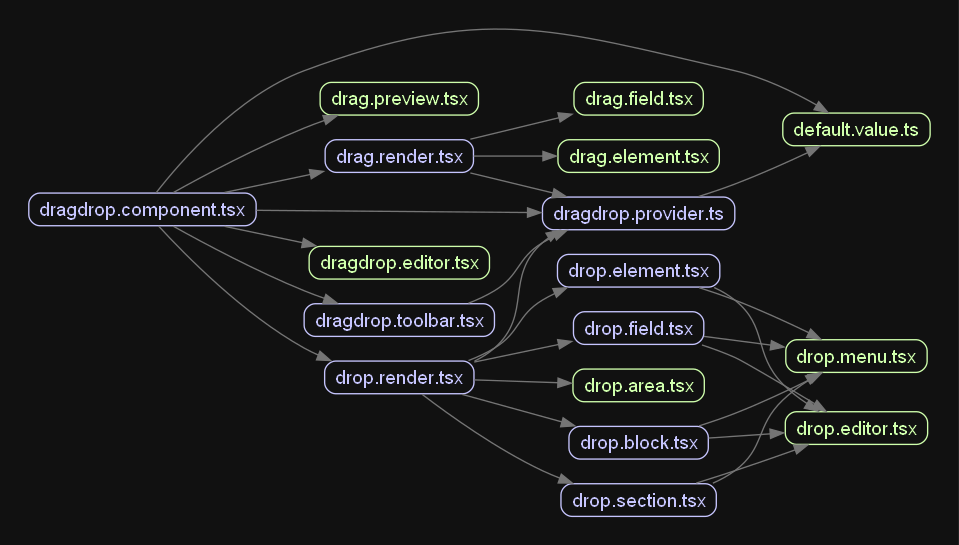
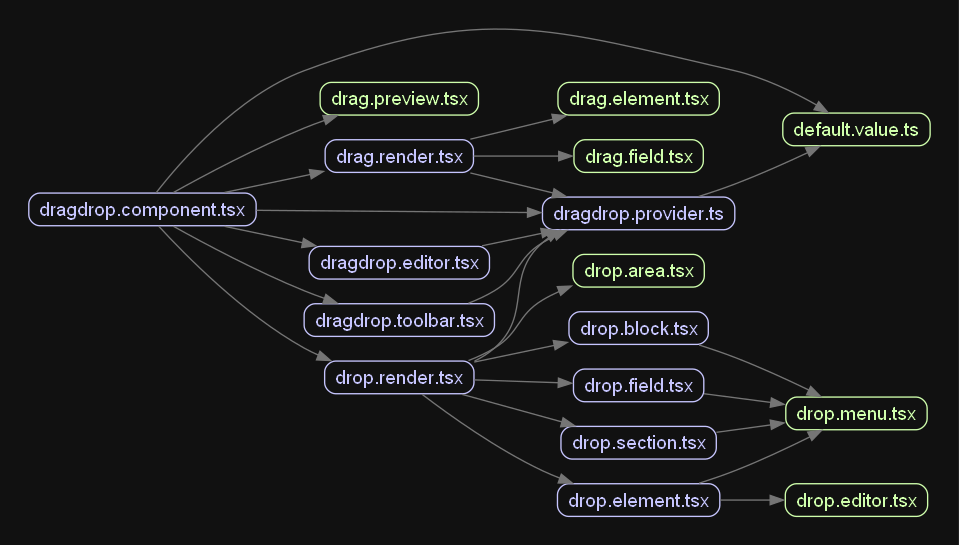
clean up editor display

diff --git a/apps/nest/apps/api/src/builder/form/form.controller.ts b/apps/nest/apps/api/src/builder/form/form.controller.ts
@@ -90,8 +90,8 @@ export class FormController {
             type: 'text',
             dataType: 'field',
             data: null,
-            parentId: 'k-9c37c',
-            position: 1,
+            parentId: null,
+            position: 0,
           },
           {
             id: 2,
@@ -100,8 +100,8 @@ export class FormController {
             type: 'text',
             dataType: 'field',
             data: null,
-            parentId: 'k-9c37c',
-            position: 2,
+            parentId: null,
+            position: null,
           },
           {
             id: 3,
@@ -110,8 +110,8 @@ export class FormController {
             type: 'text',
             dataType: 'field',
             data: null,
-            parentId: 'k-9c37c',
-            position: 3,
+            parentId: null,
+            position: null,
           },
           {
             id: 4,
@@ -121,7 +121,7 @@ export class FormController {
             dataType: 'field',
             data: null,
             parentId: null,
-            position: 4,
+            position: null,
           },
           {
             id: 5,
@@ -130,8 +130,8 @@ export class FormController {
             type: 'text',
             dataType: 'field',
             data: null,
-            parentId: 'y-b5e58',
-            position: 5,
+            parentId: null,
+            position: null,
           },
         ],
         version: 1,
@@ -190,8 +190,8 @@ export class FormController {
             type: 'text',
             dataType: 'field',
             data: null,
-            parentId: 'k-9c37c',
-            position: 1,
+            parentId: null,
+            position: 0,
           },
           {
             id: 2,
@@ -200,8 +200,8 @@ export class FormController {
             type: 'text',
             dataType: 'field',
             data: null,
-            parentId: 'k-9c37c',
-            position: 2,
+            parentId: null,
+            position: null,
           },
           {
             id: 3,
@@ -210,8 +210,8 @@ export class FormController {
             type: 'text',
             dataType: 'field',
             data: null,
-            parentId: 'k-9c37c',
-            position: 3,
+            parentId: null,
+            position: null,
           },
           {
             id: 4,
@@ -221,7 +221,7 @@ export class FormController {
             dataType: 'field',
             data: null,
             parentId: null,
-            position: 4,
+            position: null,
           },
           {
             id: 5,
@@ -230,8 +230,8 @@ export class FormController {
             type: 'text',
             dataType: 'field',
             data: null,
-            parentId: 'y-b5e58',
-            position: 5,
+            parentId: null,
+            position: null,
           },
         ],
         version: 1,

diff --git a/apps/react/src/components/dragdrop/hooks/use-dragdrop.hook.ts b/apps/react/src/components/dragdrop/hooks/use-dragdrop.hook.ts
@@ -25,9 +25,7 @@ export const useDragDrop = ({ context, item, draggable = true }: IProps) => {
   const rCoordinate = useRef<Coordinate>(defaultCoordinate);
 
   const handleDragStart = useCallback(() => {
-    context.dispatch({
-      type: ActionType.UNSELECT_ITEM
-    });
+    context.dispatch({ type: ActionType.UNSELECT_ITEM });
     return draggable;
   }, [context, draggable]);
 
@@ -43,23 +41,17 @@ export const useDragDrop = ({ context, item, draggable = true }: IProps) => {
 
     if (!dragElement) {
       const canAddItem = dndHelper.canDragDrop(dragItem, context);
-      if (!canAddItem) return;
 
-      context.dispatch({
-        type: ActionType.ADD_ITEM,
-        payload,
-      });
-
+      if (canAddItem) {
+        context.dispatch({ type: ActionType.ADD_ITEM, payload });
+      }
       return;
     }
 
     const canDragDrop = dndHelper.canDragDrop(dragItem, context, dragElement);
-    if (!canDragDrop) return;
-
-    context.dispatch({
-      type: ActionType.MOVE_ITEM,
-      payload,
-    });
+    if (canDragDrop) {
+      context.dispatch({ type: ActionType.MOVE_ITEM, payload });
+    }
   }, [context]);
 
   const handleDragOver = useCallback((dragItem: Field, monitor: DropTargetMonitor<Field>) => {
@@ -108,6 +100,18 @@ export const useDragDrop = ({ context, item, draggable = true }: IProps) => {
     preview(getEmptyImage(), { captureDraggingState: false });
     return () => { preview(null) };
   }, [preview, isDragging]);
+
+  useEffect(() => {
+    const { position, id } = item;
+    //const elementExists = context.current.elementRef[`${id}`];
+    const elementToAssign = rPreview.current || rElement.current;
+
+    const shouldAssignElementRef = position !== null && id && elementToAssign;
+
+    if (shouldAssignElementRef) {
+      context.current.elementRef[`${id}`] = elementToAssign;
+    }
+  }, [item, context, rPreview, rElement]);
 
   return {
     rElement,

diff --git a/apps/react/src/components/dragdrop/dragdrop.component.tsx b/apps/react/src/components/dragdrop/dragdrop.component.tsx
@@ -1,4 +1,4 @@
-import { useReducer, useRef } from "react";
+import { useEffect, useReducer, useRef } from "react";
 import { DndProvider } from "react-dnd";
 import { TouchBackend } from "react-dnd-touch-backend";
 import { HTML5Backend } from "react-dnd-html5-backend";
@@ -29,7 +29,7 @@ interface IProps {
 
 export function DragDrop({ data = [], dragData = [], dragElements = [], option = {} }: IProps) {
   const backend = ('ontouchstart' in window) ? TouchBackend : HTML5Backend;
-  const { current: currentRef } = useRef(defaultRef);
+  const ref = useRef(defaultRef);
   const [state, dispatch] = useReducer(dragdropReducer, { ...defaultState, currentData: data, dataSource: structuredClone(data) });
 
   useHistory({
@@ -38,9 +38,16 @@ export function DragDrop({ data = [], dragData = [], dragElements = [], option =
     dispatch
   });
 
+  useEffect(() => {
+    // Resetting the elementRef when component unmounts
+    return () => {
+      defaultRef.elementRef = {};
+    };
+  }, []);
+
   return (
     <DndProvider backend={backend}>
-      <DragDropProvider value={{ current: currentRef, state, dispatch }}>
+      <DragDropProvider value={{ current: ref.current, state, dispatch }}>
         <DragDropToolbar />
         <DropRender />
         <DragRender dragData={dragData} dragElements={dragElements} />

diff --git a/apps/react/src/components/dragdrop/helpers/dragdrop.helper.ts b/apps/react/src/components/dragdrop/helpers/dragdrop.helper.ts
@@ -229,7 +229,11 @@ class DragDropHelper {
     return 'outside';
   }
 
-  calculateDisplayOffset(clientRect?: DOMRect | null, containerWidth: number = 300, gap: number = 40) {
+  calculateDisplayOffset(selectedElement?: Element | null, containerWidth: number = 300, gap: number = 40) {
+    if (!selectedElement) {
+      return { x: 0, y: 0 };
+    }
+    const clientRect = selectedElement.getBoundingClientRect();
     const totalWidth = containerWidth + gap;
     const clientTop = clientRect?.top || 0;
     const clientRight = clientRect?.right || 0;
@@ -240,7 +244,7 @@ class DragDropHelper {
 
     if (rightSpace && rightSpace > totalWidth) {
       rightPosition = clientRight + gap;
-    } else if(window.innerWidth < totalWidth) {
+    } else if (window.innerWidth < totalWidth) {
       rightPosition = clientLeft;
     }
 
@@ -369,7 +373,7 @@ class DragDropHelper {
           type,
           dataType: type === 'section' || type === 'block' ? type : 'element',
           data: type === 'section' || type === 'block' ? [] : null,
-          position: 0,
+          position: null,
           parentId: null,
         };
       } else {

diff --git a/apps/react/src/components/dragdrop/hooks/use-draggable.hook.ts b/apps/react/src/components/dragdrop/hooks/use-draggable.hook.ts
@@ -36,17 +36,17 @@ export const useDraggable = ({ type, offset, init }: IProps = defaultProp) => {
       const { y: diffY, x: diffX } = differenceFromInitialOffset;
 
       if (rPreview.current) {
-        rPreview.current.style.top = `${Math.round(y + diffY)}px`;
-        rPreview.current.style.left = `${Math.round(x + diffX)}px`;
+        rPreview.current.style.setProperty('top', `${Math.round(y + diffY)}px`);
+        rPreview.current.style.setProperty('left', `${Math.round(x + diffX)}px`);
       }
     }
   };
 
   const handleDifferentTypeDrag = () => {
     if (rPreview.current && rPreview.current.style.visibility === 'visible') {
-      rPreview.current.style.visibility = 'hidden';
+      rPreview.current.style.setProperty('visibility', 'hidden');
     } else if (rPreview.current && rPreview.current.style.visibility === 'hidden') {
-      rPreview.current.style.visibility = 'visible';
+      rPreview.current.style.setProperty('visibility', 'visible');
     }
   };
 

diff --git a/apps/react/src/components/dragdrop/reducers/dragdrop.reducer.ts b/apps/react/src/components/dragdrop/reducers/dragdrop.reducer.ts
@@ -37,7 +37,6 @@ interface LoadHistory {
 
 interface SelectItem {
   item: Field;
-  clientRect?: DOMRect;
 }
 
 type Payload = LoadHistory | MoveItem | RemoveItem | SelectItem;
@@ -197,12 +196,11 @@ export const dragdropReducer = (state: State, { type, payload }: Action<Payload>
       return { ...state, currentData: remainingItems, historyData: newDataHistory, historyIndex };
     }
     case ActionType.SELECT_ITEM: {
-      const { item, clientRect } = payload as SelectItem;
+      const { item } = payload as SelectItem;
       const selectedItem = { ...item };
       return {
         ...state,
         selectedItem,
-        clientRect,
         isSelecting: true,
         isEditing: false
       };

diff --git a/apps/react/src/components/dragdrop/drop.element.tsx b/apps/react/src/components/dragdrop/drop.element.tsx
@@ -2,7 +2,6 @@ import { classNames } from "@/utils";
 import { ContextValue, Field } from "./types";
 import { useDragDrop, useOnClick } from "./hooks";
 import DropMenu from "./drop.menu";
-import DropEditor from "./drop.editor";
 import { Text } from '../text';
 
 interface IProps extends Field {
@@ -23,7 +22,6 @@ function DropElement({ context, ...item }: IProps) {
     <div className={className} data-id={`${item.id}`} ref={rElement}>
       {(isSelecting && !isEditing) && <DropMenu onClick={handleClick} />}
       <Text value={item.name} readOnly={!isEditing} />
-      {isEditing && <DropEditor onClick={handleClick} />}
     </div>
   )
 }

diff --git a/apps/react/src/components/dragdrop/dragdrop.editor.tsx b/apps/react/src/components/dragdrop/dragdrop.editor.tsx
@@ -6,8 +6,9 @@ import { dndHelper } from './helpers';
 
 export function DragDropEditor() {
   const context = useWrapperContext(DragDropContext);
-  const { clientRect, isEditing } = context.state;
-  const offset = dndHelper.calculateDisplayOffset(clientRect);
+  const { isEditing } = context.state;
+  const selectedElement = context.current.elementRef[`${context.state.selectedItem?.id}`];
+  const offset = dndHelper.calculateDisplayOffset(selectedElement);
 
   const { rElement, rPreview } = useDraggable({
     type: 'drag',

diff --git a/apps/react/src/components/dragdrop/drop.area.tsx b/apps/react/src/components/dragdrop/drop.area.tsx
@@ -42,11 +42,9 @@ function DropArea({ context, children, ...item }: Props) {
           return;
         }
 
-        const clientRect = el.getBoundingClientRect();
-
         context.dispatch({
           type: ActionType.SELECT_ITEM,
-          payload: { item: { ...found }, clientRect }
+          payload: { item: { ...found } }
         });
       }
     }

diff --git a/apps/react/src/components/dragdrop/hooks/use-onclick.hook.ts b/apps/react/src/components/dragdrop/hooks/use-onclick.hook.ts
@@ -19,6 +19,8 @@ export function useOnClick(context: ContextValue, item: Field) {
         dispatch({ type: name });
         break;
       case ActionType.REMOVE_ITEM:
+        delete context.current.elementRef[`${item.id}`];
+
         dispatch({
           type: name,
           payload: {

diff --git a/apps/react/src/components/dragdrop/types/dragdrop.type.ts b/apps/react/src/components/dragdrop/types/dragdrop.type.ts
@@ -15,7 +15,6 @@ export interface State {
   historyData: Field[][];
   historyIndex: number;
   selectedItem?: Partial<Field> | null;
-  clientRect?: DOMRect | null;
   isEditing?: boolean;
   isSelecting?: boolean;
 }

diff --git a/apps/react/src/components/dragdrop/default.value.ts b/apps/react/src/components/dragdrop/default.value.ts
@@ -4,7 +4,6 @@ export const defaultState = {
   historyData: [],
   historyIndex: -1,
   selectedItem: null,
-  clientRect: null,
   isEditing: false,
   isSelecting: false,
 };
